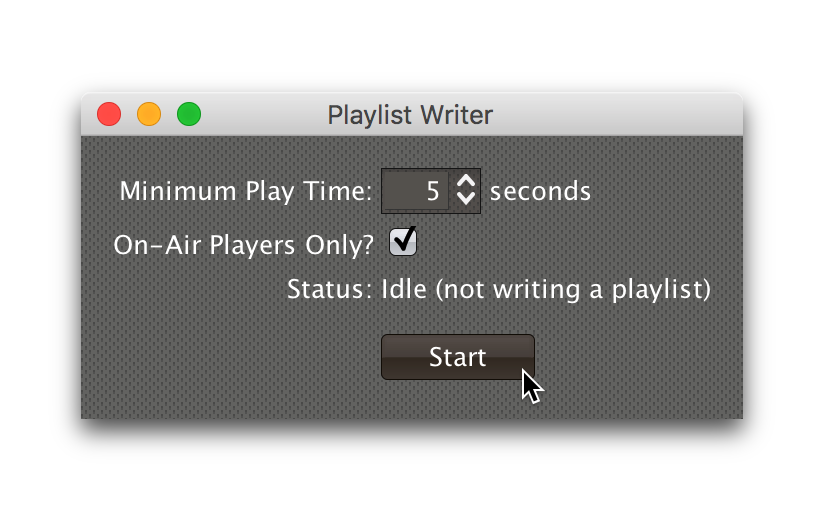
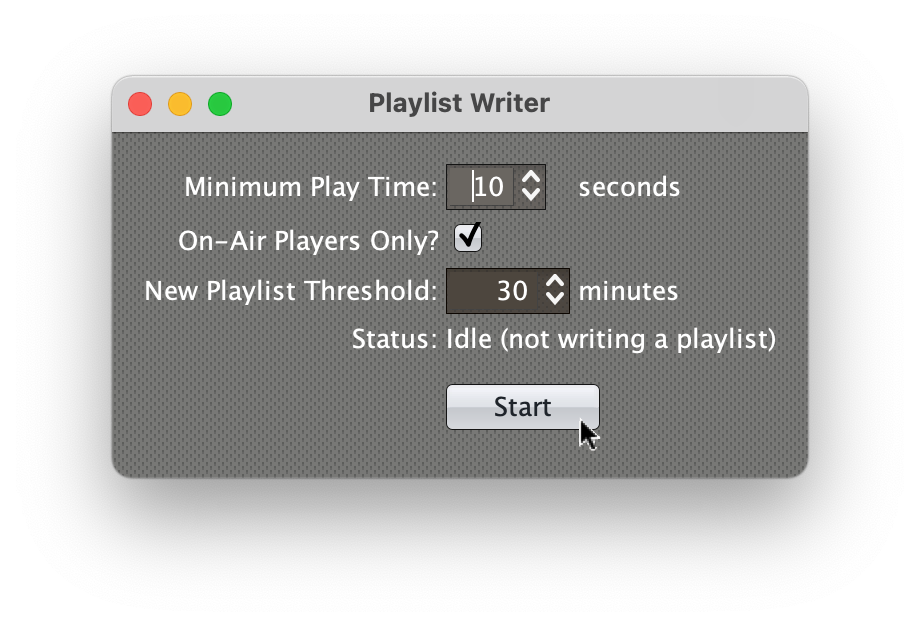
Add auto creation of new playlist files after idle time.

diff --git a/CHANGELOG.md b/CHANGELOG.md
@@ -45,6 +45,11 @@ This change log follows the conventions of
   where the specified playlist file already exists, you can choose
   whether to append to it, or to use a timestamp to create a unique
   new file.
+- The Playlist Writer window also has a new configuration field, New
+  Playlist Threshold, which causes the playlist to roll to a new file
+  if all players have been idle for that long. This facilitates
+  automatically creating separate playlist files for different
+  activities even if Beat Link Trigger is running unattended.
 
 ### Fixed
 
